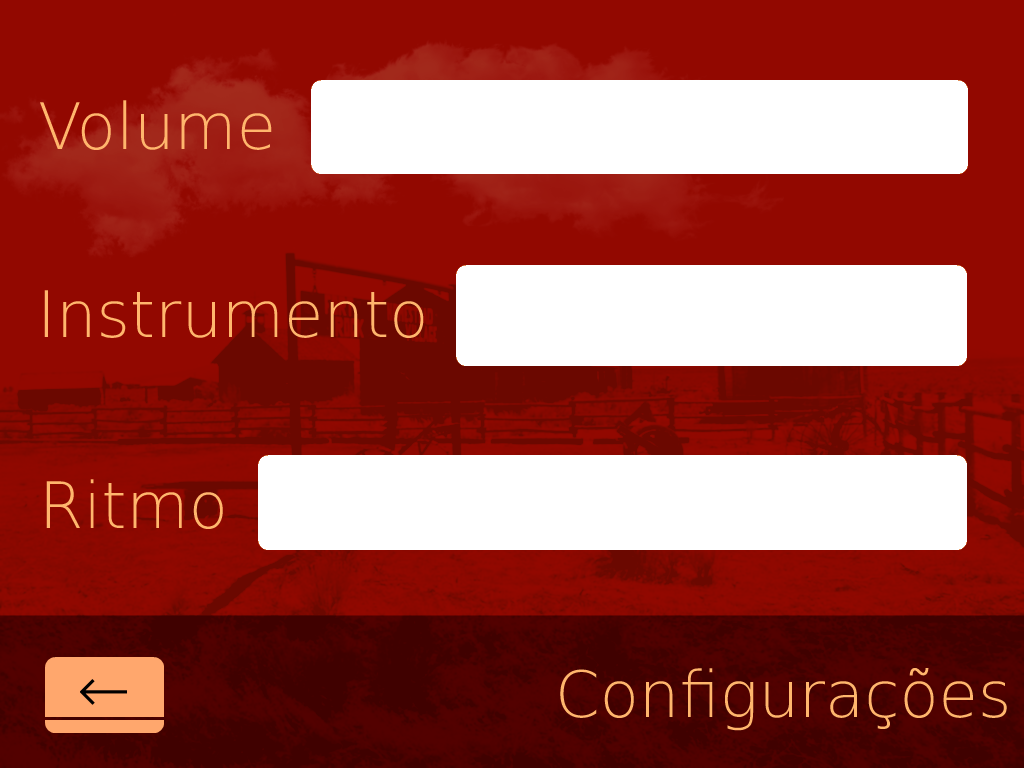
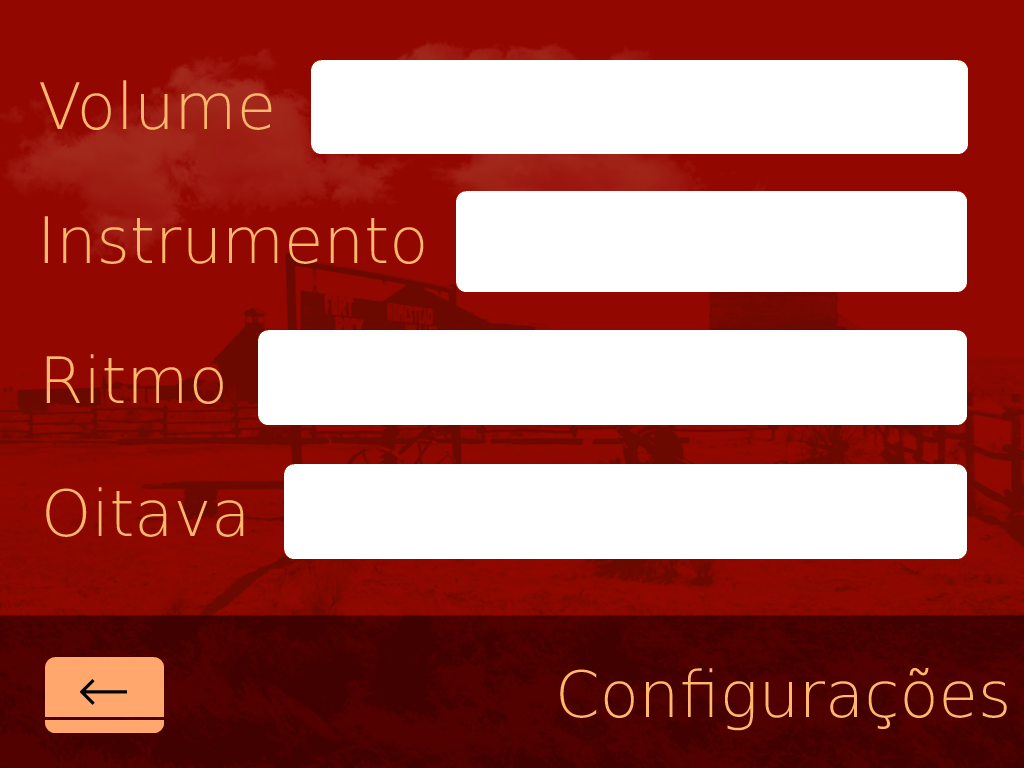
cala a boca luis
por favor

diff --git a/musicInterpreter/src/musicinterpreter/MusicInterpreter.java b/musicInterpreter/src/musicinterpreter/MusicInterpreter.java
@@ -45,8 +45,8 @@ public class MusicInterpreter extends javax.swing.JFrame {
 
         PainelPrincipal = new javax.swing.JPanel();
         PainelAbertura = new javax.swing.JPanel();
-        fundoAbertura = new javax.swing.JLabel();
         botaoIniciar = new javax.swing.JButton();
+        fundoAbertura = new javax.swing.JLabel();
         PainelInicial = new javax.swing.JPanel();
         fundoInicial = new javax.swing.JLabel();
         botaoInicialEntrada = new javax.swing.JButton();
@@ -57,6 +57,7 @@ public class MusicInterpreter extends javax.swing.JFrame {
         controleVolume = new javax.swing.JSlider();
         controleInstrumento = new javax.swing.JComboBox<>();
         controleRitmo = new javax.swing.JComboBox<>();
+        controleOitava = new javax.swing.JComboBox<>();
         fundoConfiguracoes = new javax.swing.JLabel();
         botaoConfiguracoesVoltar = new javax.swing.JButton();
         PainelTocador = new javax.swing.JPanel();
@@ -93,20 +94,24 @@ public class MusicInterpreter extends javax.swing.JFrame {
 
         PainelAbertura.setLayout(null);
 
-        fundoAbertura.setIcon(new javax.swing.ImageIcon(getClass().getResource("/Imagens/telastartup.png"))); // NOI18N
-        PainelAbertura.add(fundoAbertura);
-        fundoAbertura.setBounds(0, 0, 1024, 768);
-
+        botaoIniciar.setFont(new java.awt.Font("Yu Gothic UI Semilight", 0, 18)); // NOI18N
+        botaoIniciar.setToolTipText("Pressione para continuar...");
         botaoIniciar.setBorder(null);
         botaoIniciar.setBorderPainted(false);
         botaoIniciar.setContentAreaFilled(false);
+        botaoIniciar.setFocusable(false);
+        botaoIniciar.setRequestFocusEnabled(false);
         botaoIniciar.addActionListener(new java.awt.event.ActionListener() {
             public void actionPerformed(java.awt.event.ActionEvent evt) {
                 botaoIniciarActionPerformed(evt);
             }
         });
         PainelAbertura.add(botaoIniciar);
-        botaoIniciar.setBounds(400, 340, 230, 240);
+        botaoIniciar.setBounds(180, 60, 670, 520);
+
+        fundoAbertura.setIcon(new javax.swing.ImageIcon(getClass().getResource("/Imagens/telastartup.png"))); // NOI18N
+        PainelAbertura.add(fundoAbertura);
+        fundoAbertura.setBounds(0, 0, 1024, 768);
 
         PainelPrincipal.add(PainelAbertura, "cartaoAbertura");
 
@@ -165,6 +170,7 @@ public class MusicInterpreter extends javax.swing.JFrame {
 
         PainelConfiguracoes.setLayout(null);
 
+        controleVolume.setForeground(new java.awt.Color(102, 102, 102));
         controleVolume.setMajorTickSpacing(127);
         controleVolume.setMaximum(127);
         controleVolume.setMinorTickSpacing(10);
@@ -172,22 +178,32 @@ public class MusicInterpreter extends javax.swing.JFrame {
         controleVolume.setPaintTicks(true);
         controleVolume.setToolTipText("Volume Maximo = 127");
         controleVolume.setValue(64);
+        controleVolume.setFocusable(false);
+        controleVolume.setOpaque(false);
+        controleVolume.setRequestFocusEnabled(false);
         PainelConfiguracoes.add(controleVolume);
-        controleVolume.setBounds(320, 80, 640, 90);
+        controleVolume.setBounds(320, 60, 640, 90);
 
         controleInstrumento.setFont(new java.awt.Font("Yu Gothic UI Semilight", 0, 24)); // NOI18N
         controleInstrumento.setModel(new javax.swing.DefaultComboBoxModel<>(new String[] { "Acoustic Grand Piano", "Bright Acoustic Piano", "Electric Grand Piano", "Honkey Tonk Piano", "Electric Piano", "Electric Piano 1", "Electric Piano 2", "Harpischord", "Clavinet", "Celesta", "Glockenspiel", "Music Box", "Vibraphone", "Marimba", "Xylophone", "Tubular Bells", "Dulcimer", "Drawbar Organ", "Percussive Organ", "Rock Organ", "Church Organ", "Reed Organ", "Accordian", "Harmonica", "Tango Accordian", "Nylon String Guitar", "Steel String Guitar", "Electric Jazz Guitar", "Electric Clean Guitar", "Electric Muted Guitar", "Overdriven Guitar", "Distortion Guitar", "Guitar Harmonics", "Acoustic Bass", "Electric Bass Finger", "Electric Bass Pick", "Fretless Bass", "Slap Bass 1", "Slap Bass 2", "Synth Bass 1", "Synth Bass 2", "Violin", "Viola", "Cello", "Contrabass", "Tremolo Strings", "Pizzicato Strings", "Orchestral Strings", "Timpani", "String Ensemble 1", "String Ensemble 2", "Synthstrings 1", "Synthstrings 2", "Choir AAHS", "Voice OOHS", "Synth Voice", "Orchestra Hit", "Trumpet", "Trombone", "Tuba", "Muted Trumpet", "French Horn", "Brass Section", "Synthbrass 1", "Synthbrass 2", "Soprano Sax", "Alto Sax", "Tenor Sax", "Baritone Sax", "Oboe ", "English Horn", "Bassoon", "Clarinet", "Piccolo", "Flute", "Recorder", "Pan Flute", "Blown Bottle", "Skakuhachi", "Whistle ", "Ocarina", "Square", "Sawtooth", "Calliope", "Chiff", "Charang", "Voice", "Fifths", "Basslead", "New Age", "Warm", "Polysynth", "Choir", "Bowed", "Metallic", "Halo", "Sweep", "Rain", "Soundtrack", "Crystal", "Atmosphere", "Brightness", "Goblins", "Echoes", "Sci-Fi", "Sitar", "Banjo", "Shamisen", "Koto", "Kalimba", "Bagpipe", "Fiddle", "Shanai", "Tinkle Bell", "Agogo", "Steel Drums", "Woodblock", "Taiko Drum", "Melodic Tom", "Synth Drum", "Reverse Cymbal", "Guitar Fret Noise", "Breath Noise", "Seashore", "Bird Tweet", "Telephone Ring", "Helicopter", "Applause", "Gunshot" }));
         controleInstrumento.setToolTipText("");
         controleInstrumento.setBorder(null);
         PainelConfiguracoes.add(controleInstrumento);
-        controleInstrumento.setBounds(446, 260, 530, 110);
+        controleInstrumento.setBounds(440, 190, 530, 110);
 
         controleRitmo.setFont(new java.awt.Font("Yu Gothic UI Semilight", 0, 24)); // NOI18N
-        controleRitmo.setMaximumRowCount(9);
-        controleRitmo.setModel(new javax.swing.DefaultComboBoxModel<>(new String[] { "0.01  -  Muito Rapido", "0.05", "0.10", "0.15", "0.20", "0.25  -  Padrao", "0.50", "0.75", "1.00  -  Muito Lento" }));
-        controleRitmo.setSelectedIndex(5);
+        controleRitmo.setMaximumRowCount(6);
+        controleRitmo.setModel(new javax.swing.DefaultComboBoxModel<>(new String[] { "Grave (40 BPM)", "Largo (45 BPM)", "Larghetto (50 BPM)", "Lento (55 BPM)", "Adagio (60 BPM)", "Adagietto (65 BPM)", "Andante (70 BPM)", "Andantino (80 BPM)", "Moderato (95 BPM)", "Allegretto (110 BPM)", "Allegro (120 BPM) - default", "Vivace (145 BPM)", "Presto (180 BPM)", "Prestissimo (220 BPM)" }));
+        controleRitmo.setSelectedIndex(10);
         PainelConfiguracoes.add(controleRitmo);
-        controleRitmo.setBounds(250, 450, 720, 110);
+        controleRitmo.setBounds(250, 330, 720, 100);
+
+        controleOitava.setFont(new java.awt.Font("Yu Gothic UI Semilight", 0, 24)); // NOI18N
+        controleOitava.setMaximumRowCount(5);
+        controleOitava.setModel(new javax.swing.DefaultComboBoxModel<>(new String[] { "1ª", "2ª", "3ª", "4ª", "5ª", "6ª", "7ª", "8ª", "9ª", "10ª" }));
+        controleOitava.setSelectedIndex(4);
+        PainelConfiguracoes.add(controleOitava);
+        controleOitava.setBounds(280, 460, 690, 100);
 
         fundoConfiguracoes.setHorizontalAlignment(javax.swing.SwingConstants.CENTER);
         fundoConfiguracoes.setIcon(new javax.swing.ImageIcon(getClass().getResource("/Imagens/configuracoes.png"))); // NOI18N
@@ -380,7 +396,7 @@ public class MusicInterpreter extends javax.swing.JFrame {
             }
         });
         PainelAjuda.add(botaoEasterEgg);
-        botaoEasterEgg.setBounds(83, 620, 40, 1);
+        botaoEasterEgg.setBounds(83, 620, 40, 0);
 
         PainelPrincipal.add(PainelAjuda, "cartaoAjuda");
 
@@ -406,7 +422,7 @@ public class MusicInterpreter extends javax.swing.JFrame {
             JOptionPane.showMessageDialog(null, "Selecione uma entrada!");
         } 
         else{
-            novaMusica = new Musica(textoEdicao.getText(), controleVolume.getValue(), controleInstrumento.getSelectedIndex(), controleRitmo.getSelectedIndex());
+            novaMusica = new Musica(textoEdicao.getText(), controleVolume.getValue(), controleInstrumento.getSelectedIndex(), controleRitmo.getSelectedIndex(), controleOitava.getSelectedIndex());
             textoTocador.setText(novaMusica.pegaNotas());
             textoTocador.setCaretPosition(0);
             
@@ -416,7 +432,7 @@ public class MusicInterpreter extends javax.swing.JFrame {
     }//GEN-LAST:event_botaoInicialAvancarActionPerformed
 
     private void botaoInicialAjudaActionPerformed(java.awt.event.ActionEvent evt) {//GEN-FIRST:event_botaoInicialAjudaActionPerformed
-        String ajudatxt = LeitorArquivo.leArquivo("ajuda.txt");
+        String ajudatxt = ManipuladorArquivo.leArquivo("ajuda.txt");
         textoAjuda.setText(ajudatxt);
         textoAjuda.setCaretPosition(0);  // colocar scroll no topo
         EasterEgg.setVisible(false);  
@@ -463,7 +479,7 @@ public class MusicInterpreter extends javax.swing.JFrame {
                 String caminhoArquivo = arquivoEntrada.getAbsolutePath();
                 nomeArquivo.setText(arquivoEntrada.getName());
 
-                String entradaLida = LeitorArquivo.leArquivo(caminhoArquivo);
+                String entradaLida = ManipuladorArquivo.leArquivo(caminhoArquivo);
                 textoEdicao.setText(entradaLida);
                 textoEdicao.setCaretPosition(0);
                 CardLayout cartao = (CardLayout) PainelPrincipal.getLayout();
@@ -493,12 +509,14 @@ public class MusicInterpreter extends javax.swing.JFrame {
         if(foiSelecionado == JFileChooser.APPROVE_OPTION){
             File arquivoEntrada = seletorArquivo.getSelectedFile();
             String caminhoArquivo = arquivoEntrada.getAbsolutePath();
-            nomeArquivo.setText(arquivoEntrada.getName());
+            String nome = arquivoEntrada.getName();
             
-            if(!caminhoArquivo.endsWith(".txt")){
+            if(!caminhoArquivo.endsWith(".txt") ){
                 caminhoArquivo += ".txt";
+                nome += ".txt";
             }
-            LeitorArquivo.salvaArquivoTexto(caminhoArquivo, textoEdicao.getText());
+            nomeArquivo.setText(nome);
+            ManipuladorArquivo.salvaArquivoTexto(caminhoArquivo, textoEdicao.getText());
         }
     }//GEN-LAST:event_botaoEdicaoSalvarActionPerformed
 
@@ -614,6 +632,7 @@ public class MusicInterpreter extends javax.swing.JFrame {
     private javax.swing.JButton botaoTocadorStop;
     private javax.swing.JButton botaoTocadorVoltar;
     private javax.swing.JComboBox<String> controleInstrumento;
+    private javax.swing.JComboBox<String> controleOitava;
     private javax.swing.JComboBox<String> controleRitmo;
     private javax.swing.JSlider controleVolume;
     private javax.swing.JLabel fundoAbertura;

diff --git a/musicInterpreter/src/musicinterpreter/DecodificadorTexto.java b/musicInterpreter/src/musicinterpreter/DecodificadorTexto.java
@@ -11,34 +11,34 @@ package musicinterpreter;
  */
 public class DecodificadorTexto {
 
-    static final int OITAVA_PADRAO = 5;
     static final int NUMERO_DE_INSTRUMENTOS = 127;
     static final int VOLUME_MAXIMO = 127;
     static final int ULTIMA_OITAVA = 9;
 
     private String saidaDecodificada;
 
-    public DecodificadorTexto(String entradaTexto, int volumeInicial, int instrumentoInicial, int indiceRitmo){
-        this.saidaDecodificada = decodificaArquivo(entradaTexto, volumeInicial, instrumentoInicial, indiceRitmo);
+    public DecodificadorTexto(String entradaTexto, int volumeInicial, int instrumentoInicial, int indiceRitmoInicial, int oitavaInicial){
+        this.saidaDecodificada = decodificaArquivo(entradaTexto, volumeInicial, instrumentoInicial, indiceRitmoInicial, oitavaInicial);
     }
 
     public String pegaSaida(){
 		return this.saidaDecodificada;
 	}
 
-    public String decodificaArquivo(String entradaTexto, int volumeInicial, int instrumentoInicial, int indiceInicial){
+    public String decodificaArquivo(String entradaTexto, int volumeInicial, int instrumentoInicial, int indiceRitmoInicial, int oitavaInicial){
 		String stringAuxiliar = "";
 		Nota notaTocada = null;
-		int oitavaAtual = OITAVA_PADRAO;
+		int oitavaAtual = oitavaInicial;
 		int volumeAtual = volumeInicial;
 		int instrumentoAtual = instrumentoInicial;
 		int i = 0;
-                
-                float ritmoInicial = decodificaControleRitmo(indiceInicial);
+
+        int ritmoInicial = decodificaControleRitmo(indiceRitmoInicial);
 
 		char[] entradaEmCaracteres = entradaTexto.toCharArray();
-                
-                stringAuxiliar += "I" + Integer.toString(instrumentoAtual) + " ";
+
+		stringAuxiliar += "T" + Integer.toString(ritmoInicial) + " ";
+        stringAuxiliar += "I" + Integer.toString(instrumentoAtual) + " ";
 
 		for(i = 0; i < entradaTexto.length(); i++){
 			if(testeInstrumento(entradaEmCaracteres[i])){
@@ -50,24 +50,24 @@ public class DecodificadorTexto {
 				volumeAtual = alteraVolume(entradaEmCaracteres[i], volumeAtual);
 			}
 			else if(testeOitava(entradaEmCaracteres[i])){
-				oitavaAtual = alteraOitava(entradaEmCaracteres[i], oitavaAtual);
+				oitavaAtual = alteraOitava(entradaEmCaracteres[i], oitavaAtual, oitavaInicial);
 			}
 			else if (testeNota(entradaEmCaracteres[i])){
 				notaTocada = new Nota(entradaEmCaracteres[i], oitavaAtual, volumeAtual);
-				stringAuxiliar += notaTocada.pegaNota() + notaTocada.pegaOitava() + '/' + Float.toString(ritmoInicial) + "a" + notaTocada.pegaVolume() + " ";
+				stringAuxiliar += notaTocada.pegaNota() + notaTocada.pegaOitava() + "a" + notaTocada.pegaVolume() + " ";
 
 			}
 			else{ // nenhum dos caracteres anteriores, entao repetir a nota anterior ou fazer uma pausa
 				try{
 					if (testeNota(entradaEmCaracteres[i-1])){
-						stringAuxiliar += notaTocada.pegaNota() + notaTocada.pegaOitava() + '/' + Float.toString(ritmoInicial) + "a" + notaTocada.pegaVolume() + " ";
+						stringAuxiliar += notaTocada.pegaNota() + notaTocada.pegaOitava() + "a" + notaTocada.pegaVolume() + " ";
 					}
 					else{
-						stringAuxiliar += "R" + '/' + Float.toString(ritmoInicial) + " ";
+						stringAuxiliar += "R ";
 					}
 				}
 				catch(IndexOutOfBoundsException erroLimiteArray){
-					stringAuxiliar += "R" + '/' + Float.toString(ritmoInicial) + " ";
+					stringAuxiliar += "R ";
 				}
 			}
 		}
@@ -135,9 +135,9 @@ public class DecodificadorTexto {
 		return false;
 	}
 
-	private int alteraOitava(char caracterLido, int oitavaAtual){
+	private int alteraOitava(char caracterLido, int oitavaAtual, int oitavaInicial){
 		if(oitavaAtual == ULTIMA_OITAVA){
-			return OITAVA_PADRAO;
+			return oitavaInicial;
 		}
 		else{
 			return oitavaAtual += 1;
@@ -150,19 +150,24 @@ public class DecodificadorTexto {
 		}
 		return false;
 	}
-        
-    private float decodificaControleRitmo(int indice){
+
+    private int decodificaControleRitmo(int indice){
         switch(indice){
-            case 0: return 0.01f;
-            case 1: return 0.05f;
-            case 2: return 0.10f;
-            case 3: return 0.15f;
-            case 4: return 0.20f;
-            case 5: return 0.25f;
-            case 6: return 0.50f;
-            case 7: return 0.75f;
-            case 8: return 1.00f;
-            default: return 0.25f;
+            case 0: return 40;
+            case 1: return 45;
+            case 2: return 50;
+            case 3: return 55;
+            case 4: return 60;
+            case 5: return 65;
+            case 6: return 70;
+            case 7: return 80;
+            case 8: return 95;
+			case 9: return 110;
+			case 10: return 120; //default
+			case 11: return 145;
+			case 12: return 180;
+			case 13: return 220;
+            default: return 120;
         }
     }
 }

diff --git a/musicInterpreter/src/musicinterpreter/Musica.java b/musicInterpreter/src/musicinterpreter/Musica.java
@@ -23,11 +23,6 @@ public class Musica {
 	private Player tocador;
 	private ManagedPlayer tocadorControlado;
 
-	static final int OITAVA_PADRAO = 5;
-	static final int NUMERO_DE_INSTRUMENTOS = 127;
-	static final int VOLUME_MAXIMO = 127;
-	static final int ULTIMA_OITAVA = 9;
-
 	/*
 	------------------------------------------------------------------------------------------------------------------------
 	Metodos Publicos:
@@ -46,8 +41,8 @@ public class Musica {
 	------------------------------------------------------------------------------------------------------------------------
 	*/
 
-    public Musica(String entradaTexto, int volumeInicial, int instrumentoInicial, int ritmoInicial){
-        DecodificadorTexto decodificador = new DecodificadorTexto(entradaTexto, volumeInicial, instrumentoInicial, ritmoInicial);
+    public Musica(String entradaTexto, int volumeInicial, int instrumentoInicial, int indiceRitmoInicial, int oitavaInicial){
+        DecodificadorTexto decodificador = new DecodificadorTexto(entradaTexto, volumeInicial, instrumentoInicial, indiceRitmoInicial, oitavaInicial);
         this.notas = decodificador.pegaSaida();
 
 		this.tocador = new Player();

diff --git a/musicInterpreter/src/musicinterpreter/ManipuladorArquivo.java b/musicInterpreter/src/musicinterpreter/ManipuladorArquivo.java
@@ -13,7 +13,7 @@ import java.io.*;
 
 
 
-public class LeitorArquivo {
+public class ManipuladorArquivo {
     public static String leArquivo(String nomeArquivo){
         try{
             FileInputStream arquivoEntrada = new FileInputStream(nomeArquivo);
@@ -44,7 +44,7 @@ public class LeitorArquivo {
 		try{
 			PrintWriter saidaTexto = new PrintWriter(caminhoArquivo);
 
-			saidaTexto.println(textoASalvar);
+			saidaTexto.printf(textoASalvar);
                         
                         saidaTexto.close();
 		}
